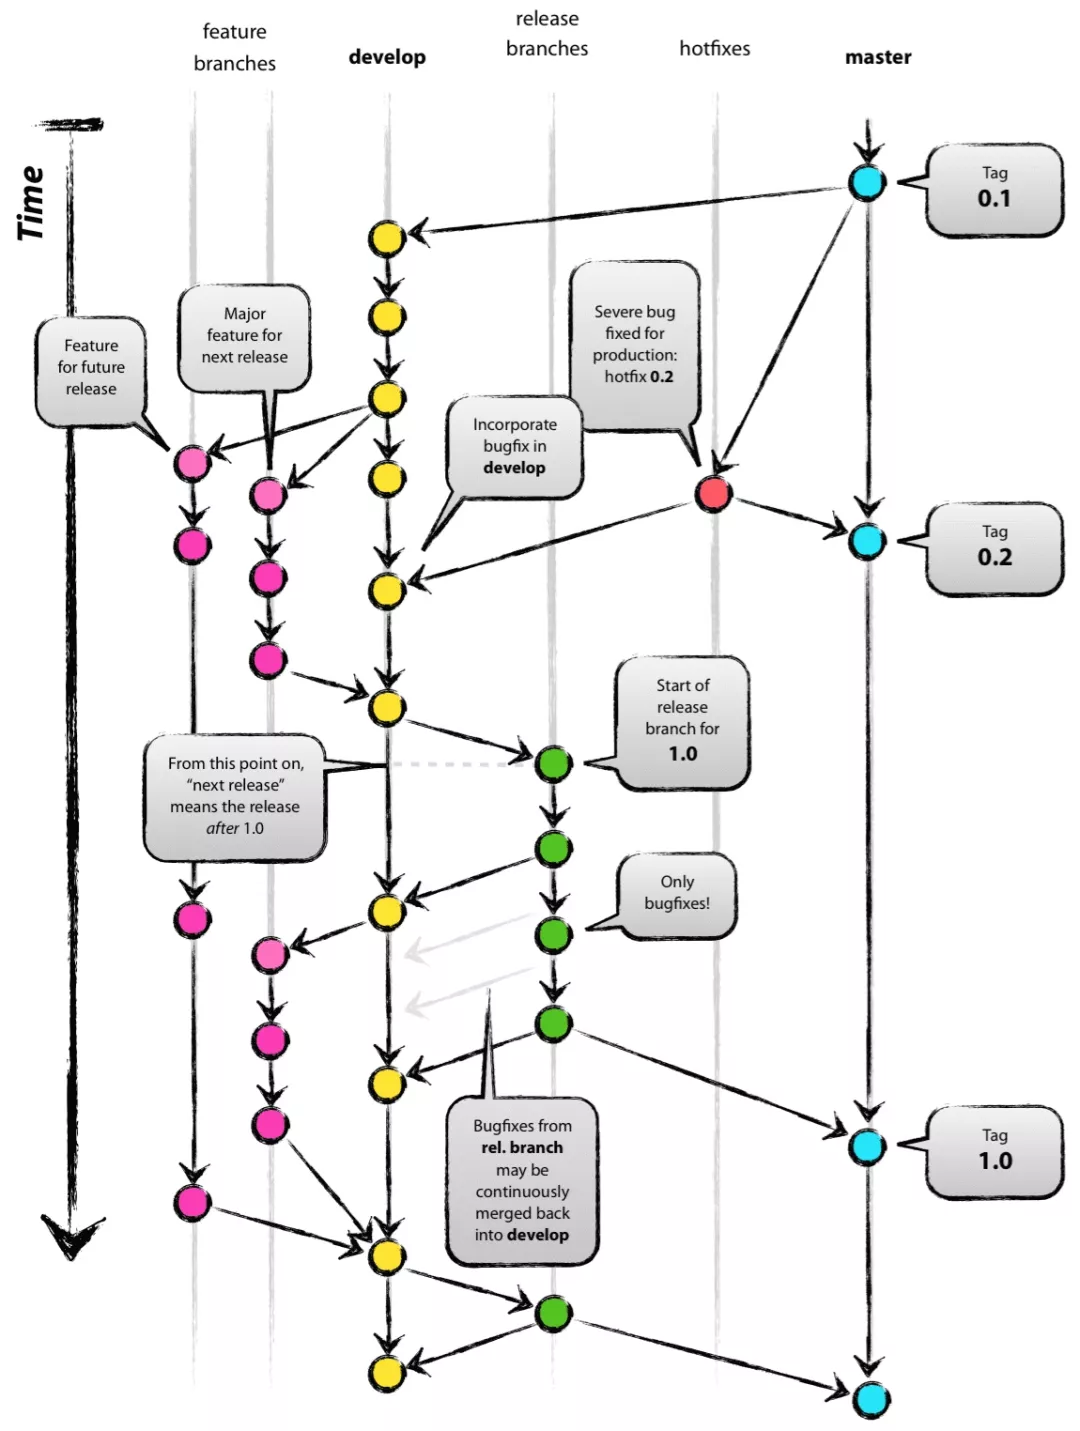
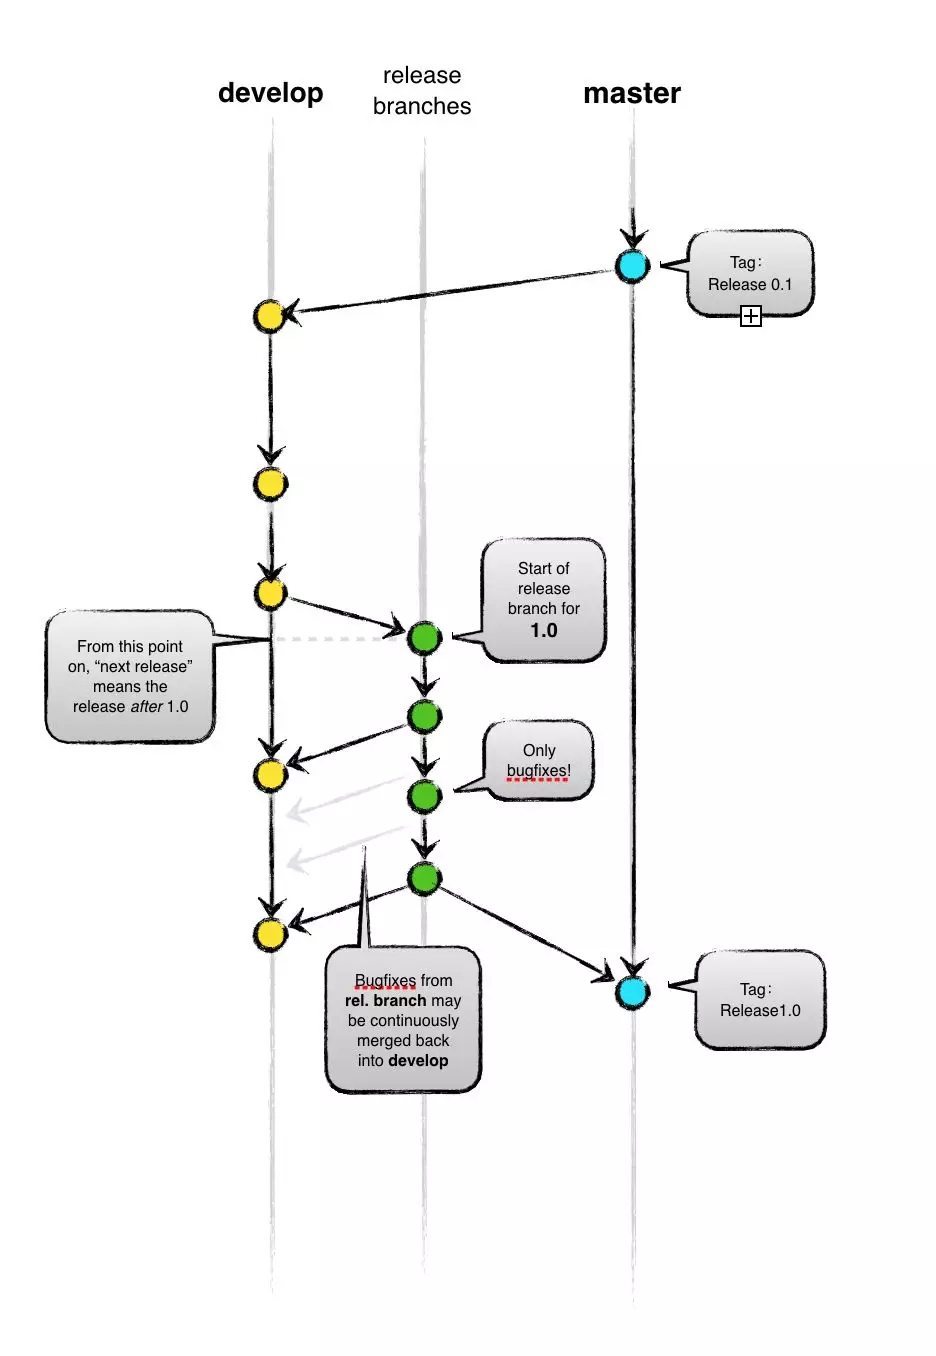
modify files

Changed region(s): [[0.0, 0.0, 0.9915, 0.9912], [0.7746, 0.031, 0.8365, 0.0619]]

diff --git a/Git相关/git分支管理模型.md b/Git相关/git分支管理模型.md
@@ -48,3 +48,13 @@ git push origin develop
 博客地址：[a-successful-git-branching-model](https://nvie.com/posts/a-successful-git-branching-model/)
 > * 阮一峰老师的《Git分支管理策略》
 博客地址：[Git分支管理策略](http://www.ruanyifeng.com/blog/2012/07/git.html)
+
+### 3.图例与详解
+
+
+- 分支管理模型图例
+![git分支模型图](/images/git-model@2x.png)
+
+
+上图出现了feture branches、develop、release branches、hotfixes、master总共五种分支
+下面详细解析各个分支作用和用法
